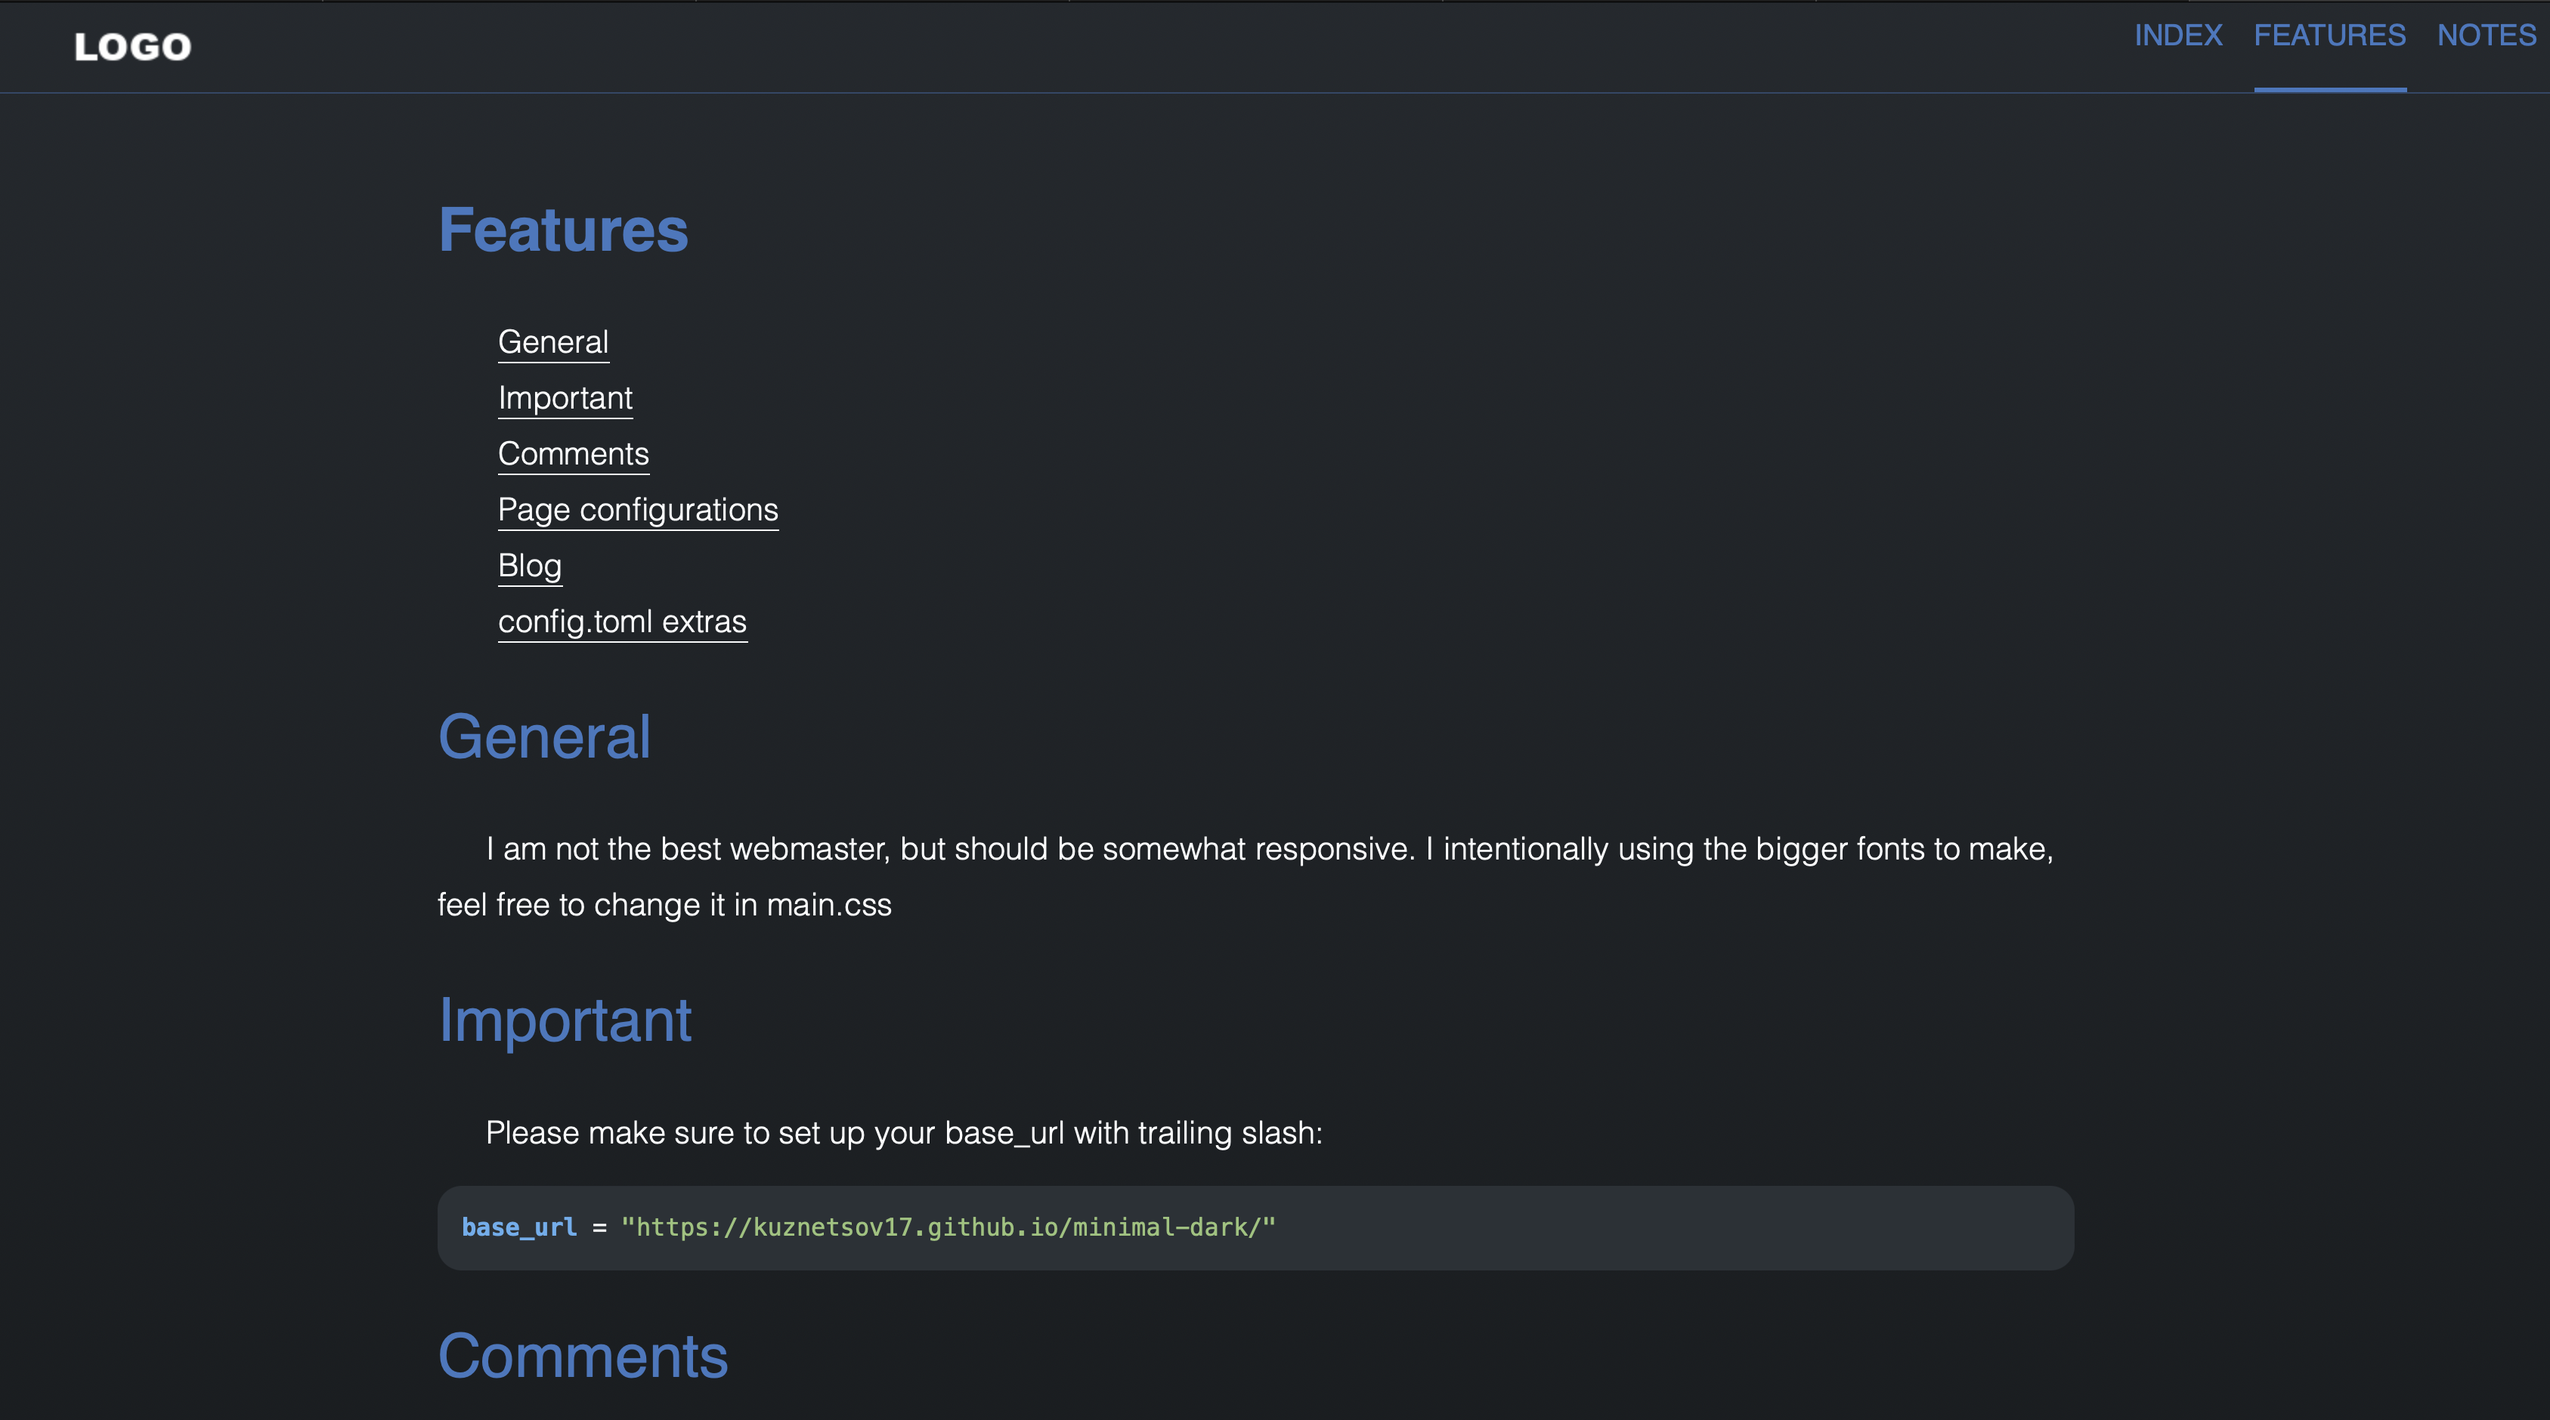
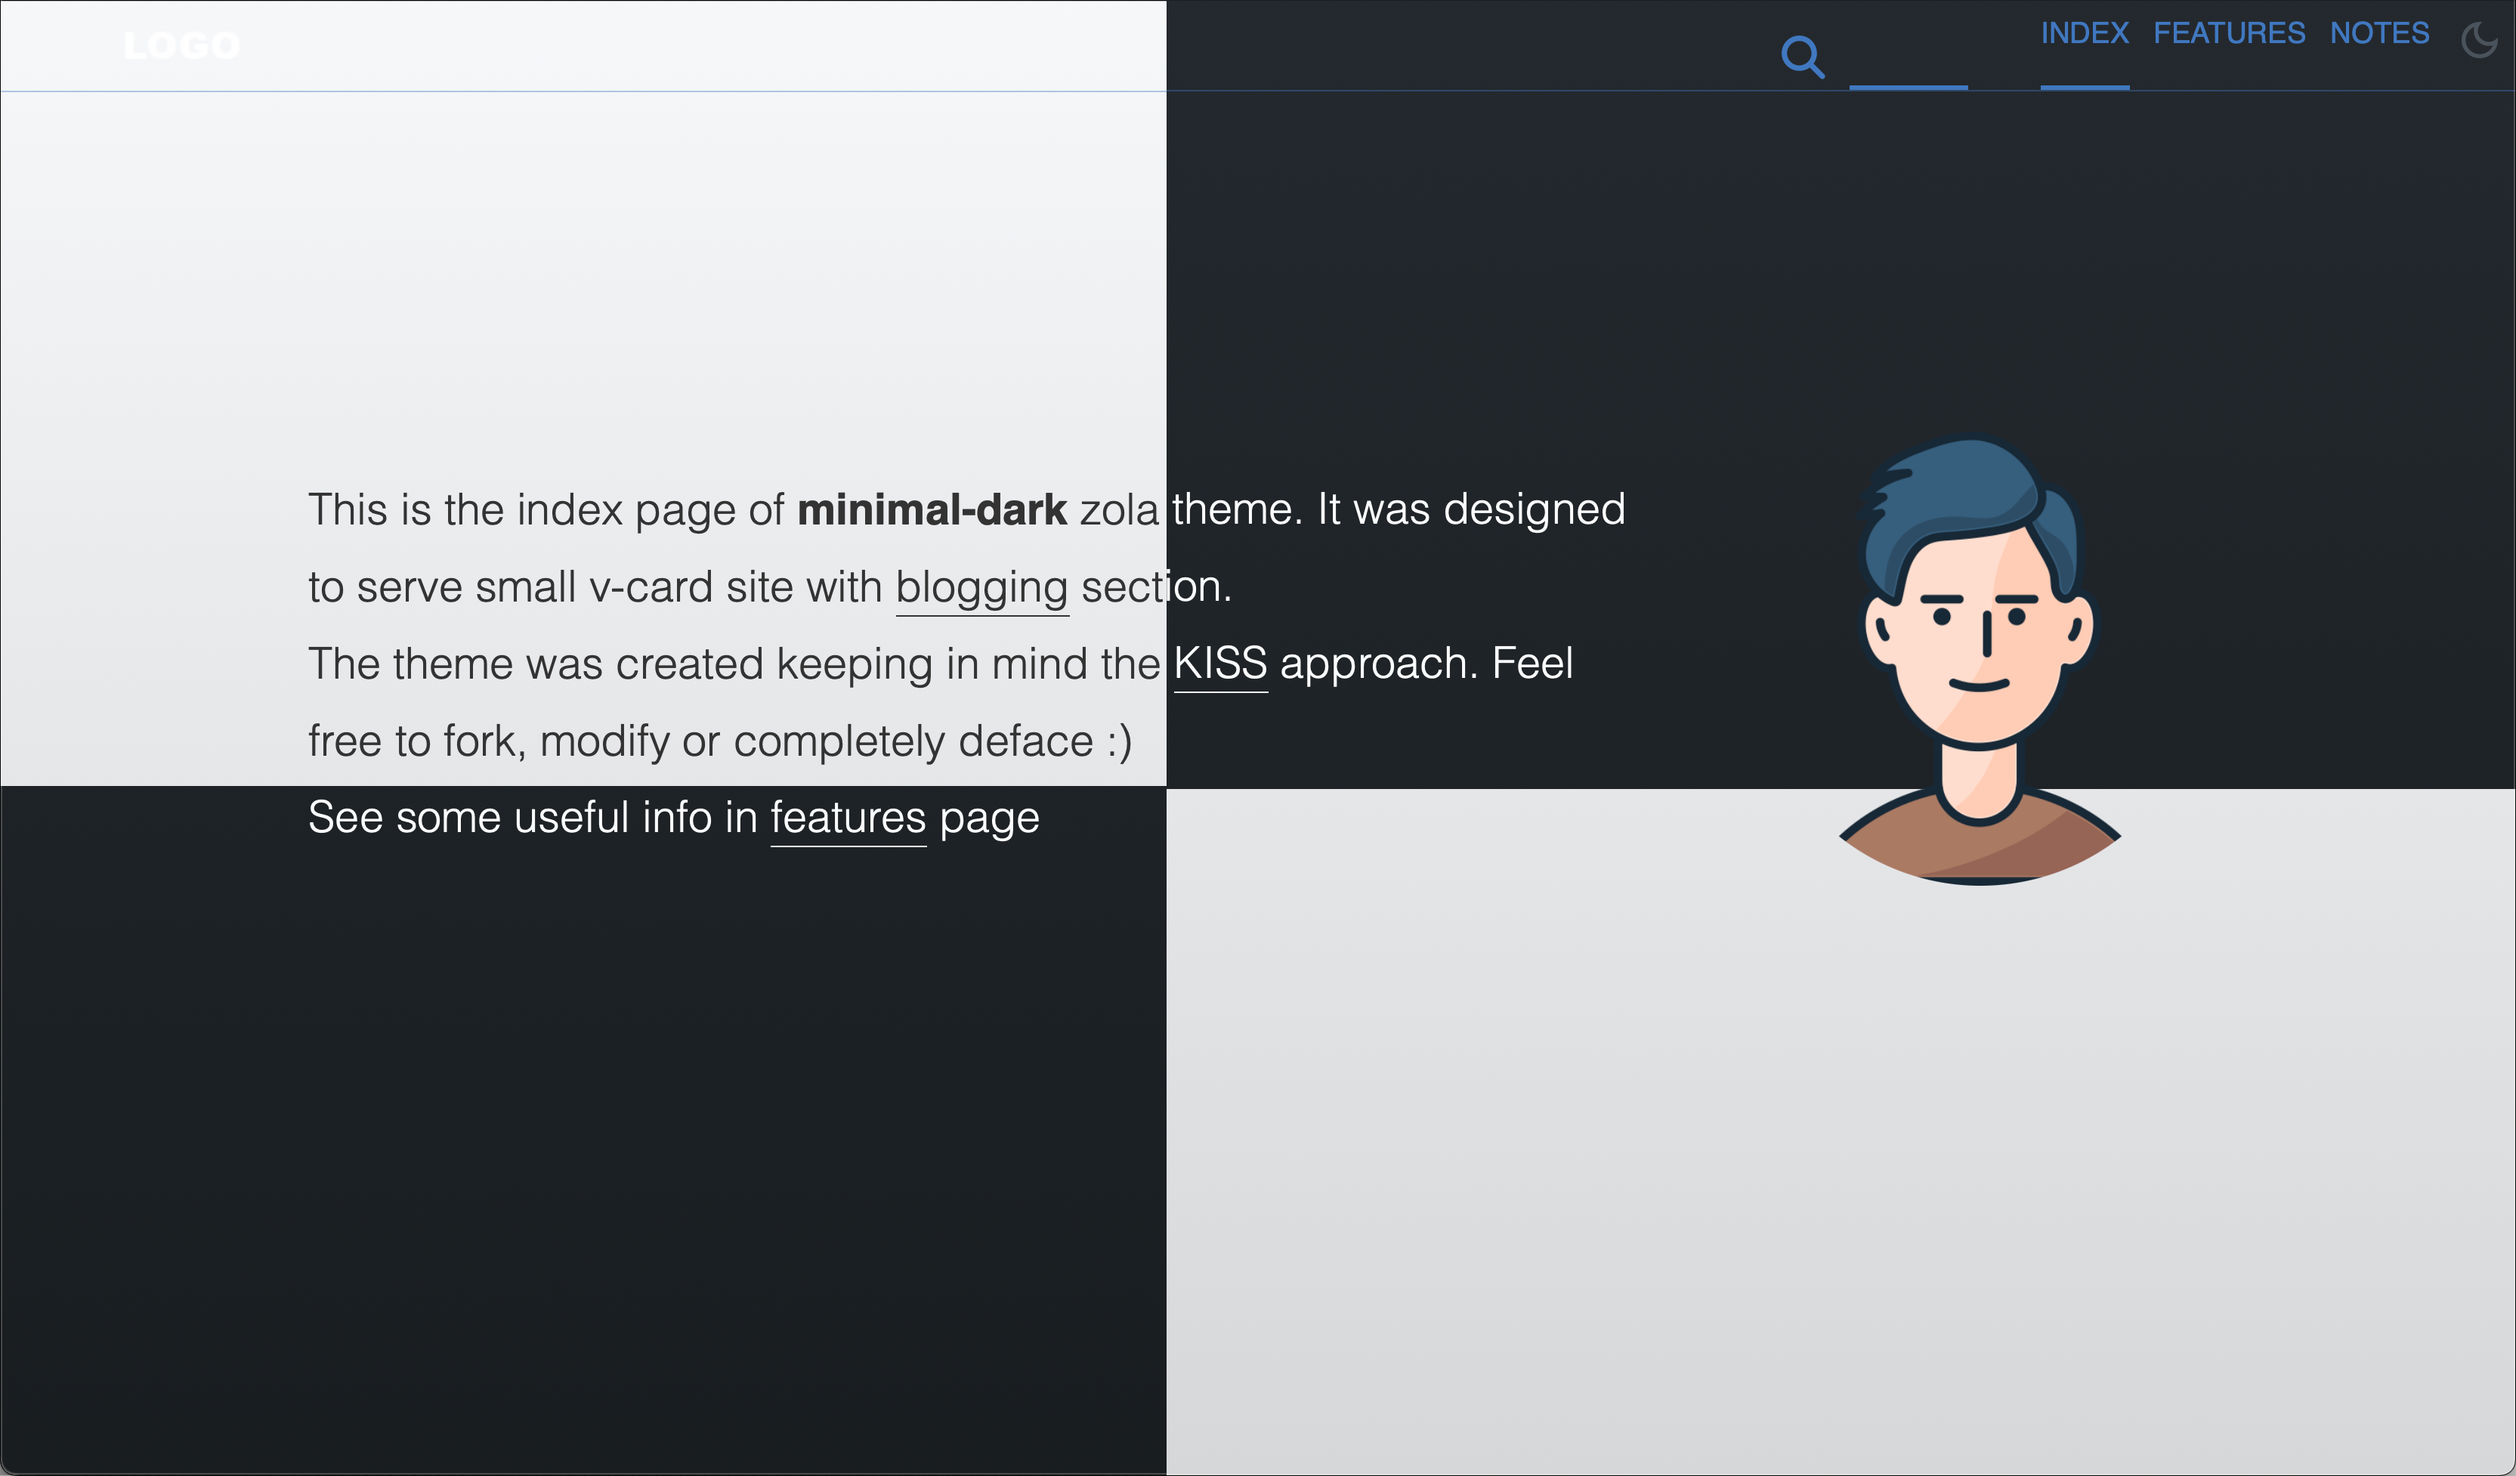
README and features update

diff --git a/content/_index.md b/content/_index.md
@@ -63,7 +63,7 @@ show_shares = false
 index = true
 
 +++
-This is the index page of **minimal-dark** zola theme.
+This is the index page of **minimal-dark** (not only dark nowadays) zola theme.
 It was designed to serve small v-card site with [blogging](notes) section.
 
 The theme was created keeping in mind the [KISS](https://en.wikipedia.org/wiki/KISS_principle) approach. Feel free to fork, modify or completely deface :)

diff --git a/README.md b/README.md
@@ -2,7 +2,10 @@
 # General
 
 I am not the best webmaster, but should be somewhat responsive.
-I intentionally using the bigger fonts to make, feel free to change it in main.css
+I intentionally using the bigger fonts to make, feel free to change it in main.scss
+
+# Light mode
+Now light mode also supported. 
 
 # Important
 Please make sure to set up your base_url with trailing slash:

diff --git a/content/features.md b/content/features.md
@@ -22,6 +22,9 @@ show_date = false
 I am not the best webmaster, but should be somewhat responsive.
 I intentionally using the bigger fonts to make, feel free to change it in main.css
 
+# Light mode
+Now light mode also supported. 
+
 # Important
 Please make sure to set up your base_url with trailing slash:
 ```toml
